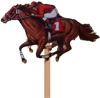
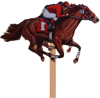
horses

diff --git a/public/app.js b/public/app.js
@@ -90,8 +90,17 @@ $(function() {
       for (var i = 0; i < 6; i++) {
         var wall = document.createElement('div');
         var horse = document.createElement('div');
-        $(wall).addClass('wall').attr('id', 'wall' + i);
-        $(horse).addClass('horse').attr('id', 'horse' + i);
+        var img = document.createElement('img');
+        img.src = '../images/small-horse-red.png';
+        $(wall).addClass('wall')
+          .attr('id', 'wall' + i)
+          .css('bottom',i*20)
+          .css('z-index', 1000 + 1000 * (6-i));
+        $(horse).addClass('horse')
+          .attr('id', 'horse' + i)
+          .css('bottom',i*20+40)
+          //.css('left', i * 20)
+          .css('z-index', 950 + 1000 * (6-i));
         this.$el.append(horse);
         this.$el.append(wall);
       }
@@ -212,6 +221,7 @@ $(function() {
   socket.on('startGame', function (startGame) {
     if (startGame)
       gameStarted = true;
+      console.log(startGame);
       // access startGame object
   });
   socket.on('new_bet', function (data) {

diff --git a/public/css/style.css b/public/css/style.css
@@ -74,3 +74,25 @@ body > div.row-fluid {
   background: grey;
   color: white;
 }
+
+#track-container {
+  position: relative;
+  clear: both;
+  width: 100%;
+  height: 400px;
+}
+
+.horse {
+  position:absolute;
+  width: 100px;
+  height: 100px;
+  background: url(../images/small-horse-red.png);
+  background-size: cover;
+}
+
+.wall {
+  position: absolute;
+  width: 100%;
+  height: 60px;
+  background-color: #8B4513;
+}
